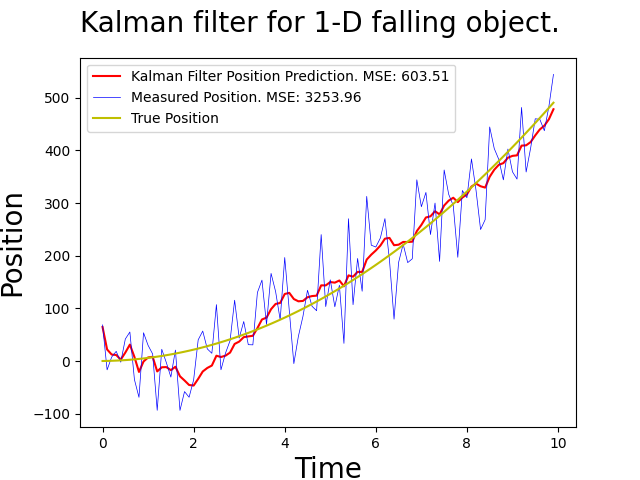
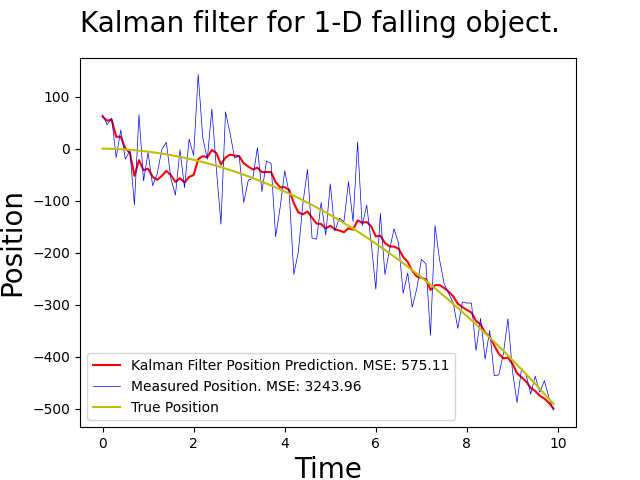
fixed bug in FallingObject dynamics. Fixed readme instructions for installing requirements

diff --git a/kalman-filter.py b/kalman-filter.py
@@ -11,15 +11,16 @@ class System:
         self.validate_dimenstions()
 
     def get_state(self):
-        """Returns the n x 1 dimensional true state of the system."""
+        """The n x 1 state of the system, x."""
         return self.state
 
     def get_state_covariance(self):
-        """Returns the n x n covariance matrix of the state."""
+        """The n x n covariance matrix P of the state."""
         return self.state_covariance
 
     def state_transition_matrix(self) -> np.ndarray:
-        """The n x n state transition matrix A which describes the transition from the previous state to the next state."""
+        """The n x n state transition matrix A.
+        Describes the transition from the previous state to the next state."""
         raise NotImplementedError("Subclasses should implement this method.")
 
     def process_noise_cov(self) -> np.ndarray:
@@ -28,7 +29,8 @@ class System:
         raise NotImplementedError("Subclasses should implement this method.")
 
     def transformation_matrix(self) -> np.ndarray:
-        """The m x n transformation matrix H that transforms a system from the state space to the measurement space."""
+        """The m x n transformation matrix H.
+        Transforms a system from the state space to the measurement space."""
         raise NotImplementedError("Subclasses should implement this method.")
 
     def measurement_noise(self) -> np.ndarray:
@@ -40,7 +42,8 @@ class System:
         raise NotImplementedError("Subclasses should implement this method.")
 
     def control_vector(self) -> np.ndarray:
-        """The p x 1 control vector u which represents influence on the state not described by the state itself."""
+        """The p x 1 control vector u .
+        Represents influence on the state not described by the state itself."""
         raise NotImplementedError("Subclasses should implement this method.")
 
     def control_matrix(self) -> np.ndarray:
@@ -49,7 +52,8 @@ class System:
 
     def update_true_state(self) -> None:
         """Updates the true state of the system."""
-        self.state = self.state_transition_matrix() @ self.state + self.control_matrix() @ self.control_vector()
+        control_update = self.control_matrix() @ self.control_vector()
+        self.state = self.state_transition_matrix() @ self.state + control_update
 
     def get_measurement(self) -> np.ndarray:
         """Get an artificial measurement for the given state."""
@@ -103,14 +107,15 @@ class FallingObject(System):
     def __init__(self, initial_position: float = 0,
                  initial_velocity: float = 0,
                  dt: float = 0.1,
-                 gravity=9.81):
+                 gravity=-9.81):
         self.dt = dt
         self.gravity = gravity
         initial_state = np.array([[initial_position], [initial_velocity]])
         super().__init__(initial_state)
 
     def state_transition_matrix(self) -> np.ndarray:
-        """The n x n state transition matrix A which describes the transition from the previous state to the next state."""
+        """The n x n state transition matrix A.
+        Describes the transition from the previous state to the next state."""
         return np.array([[1,self.dt],[0,1]])
 
     def process_noise_cov(self) -> np.ndarray:
@@ -120,7 +125,8 @@ class FallingObject(System):
                          [(self.dt**3)/2, self.dt**2]]) * 0.25**2
 
     def transformation_matrix(self) -> np.ndarray:
-        """The m x n transformation matrix H that transforms a system from the state space to the measurement space."""
+        """The m x n transformation matrix H.
+        Transforms a system from the state space to the measurement space."""
         return np.array([[1, 0]])
 
     def measurement_noise(self) -> np.ndarray:
@@ -134,7 +140,8 @@ class FallingObject(System):
         return np.array([[0.25**2]])
 
     def control_vector(self) -> np.ndarray:
-        """The p x 1 control vector u which represents influence on the state not described by the state itself."""
+        """The p x 1 control vector u.
+        Represents influence on the state not described by the state itself."""
         return np.array([[self.gravity]])
 
     def control_matrix(self) -> np.ndarray:

diff --git a/README.md b/README.md
@@ -6,7 +6,7 @@ An implementation of the Kalman filter for predicting the dynamics of a falling 
 
 1) Clone the repo.
 
-2) `pip install requirements.txt`
+2) `pip install -r requirements.txt`
 
 3) Execute the file `kalman-filter.py`. This will generate a graph displaying the measured position, actual position, and predicted position via Kalman filter over time. Aditionally, the MSE of the measured position and the predicted position will be printed.
 
